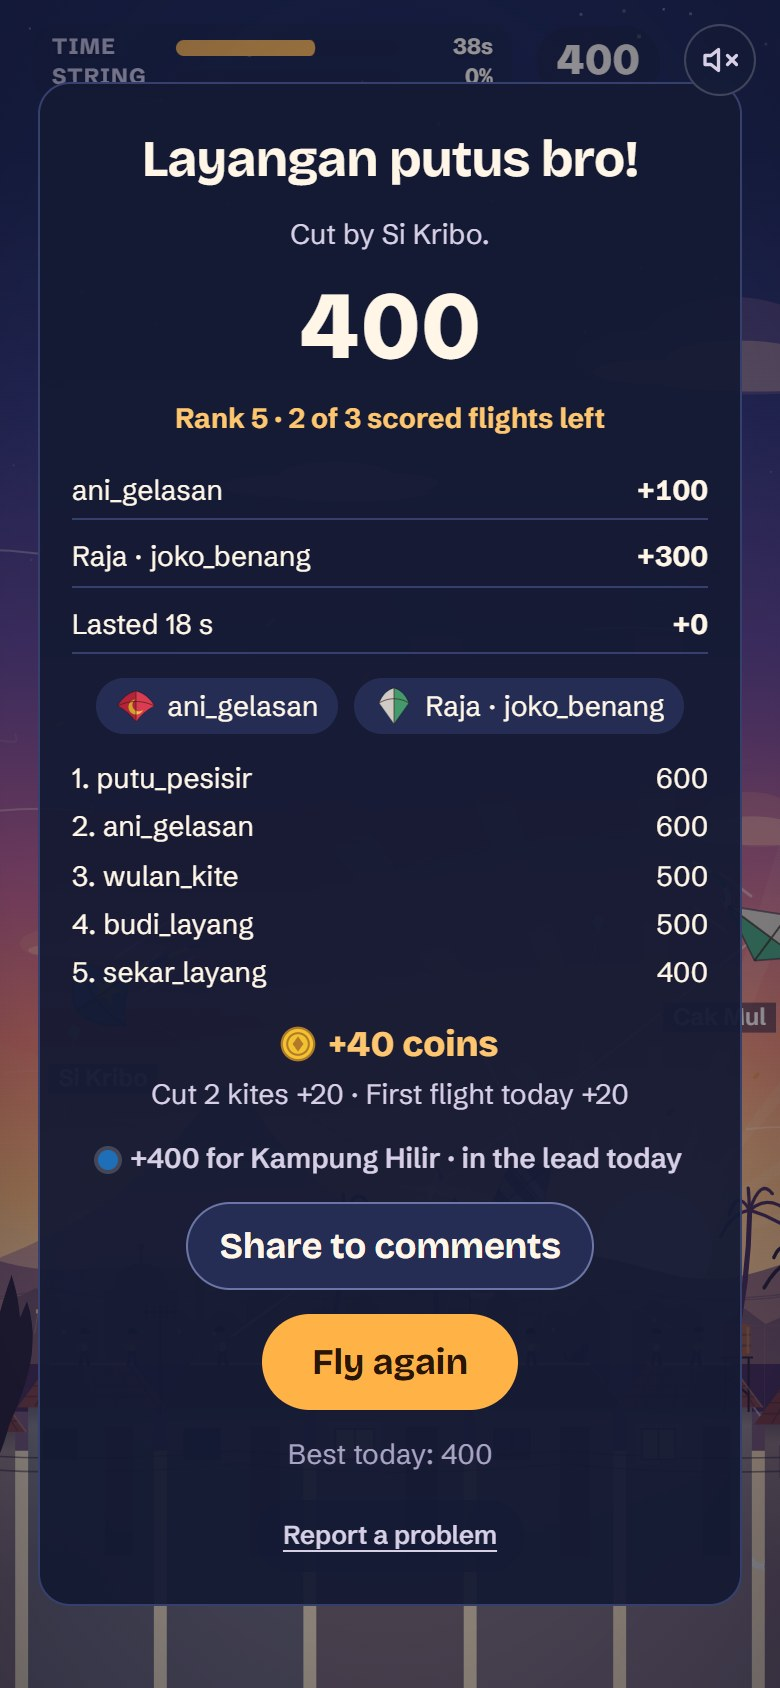
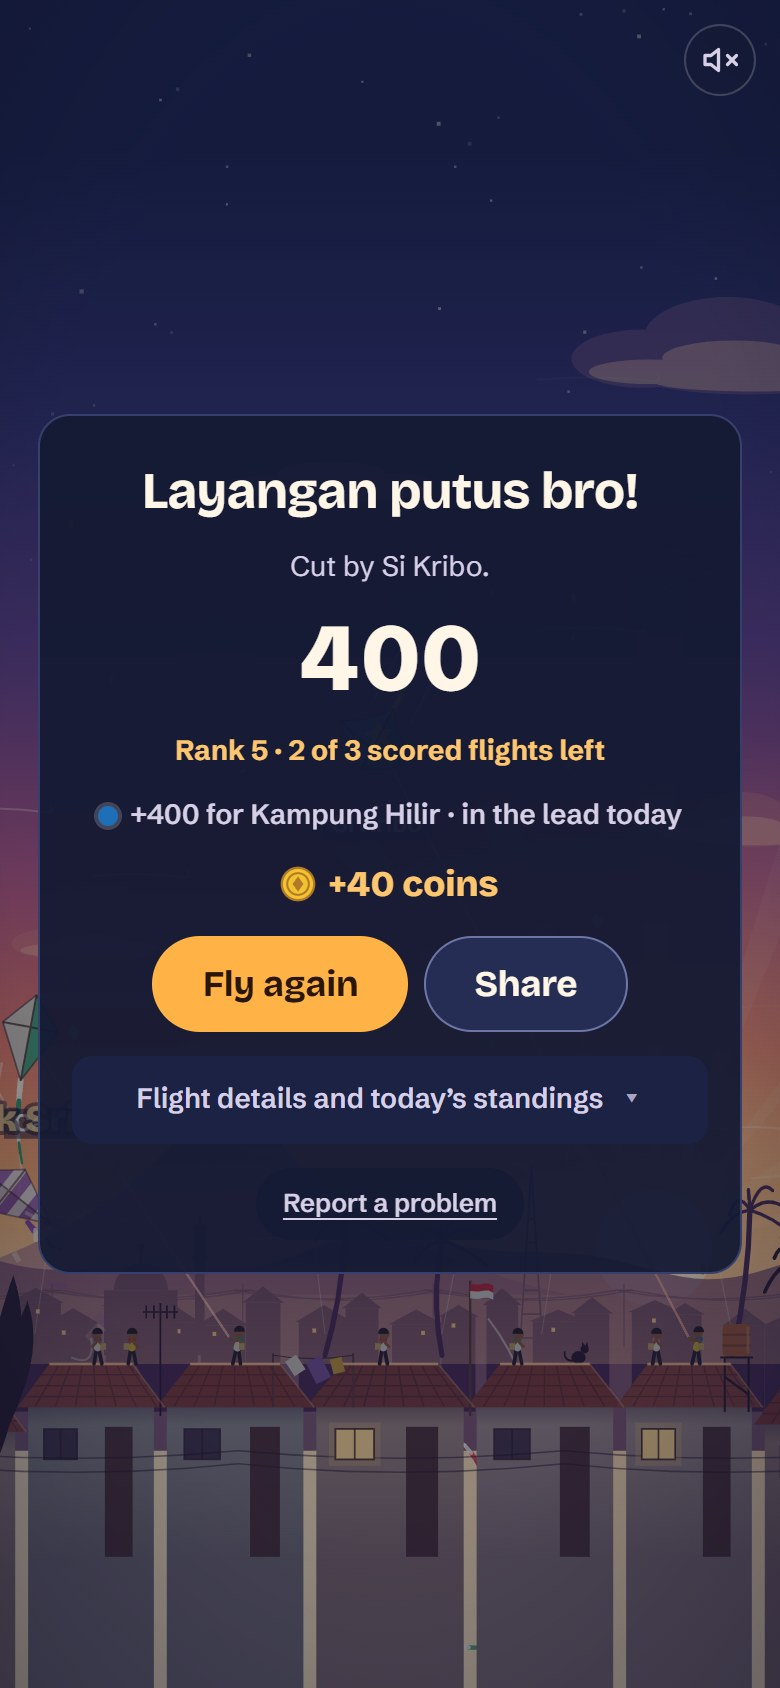
Update the result screenshot and its caption.
The listing now matches the folded result card, including the scored flights left and the details below.

diff --git a/README.md b/README.md
@@ -9,7 +9,7 @@ Fly a fighter kite with one finger. Cross a rival's string and saw through it wi
   &nbsp;
   <img src="docs/screenshots/04-flight.jpg" width="250" alt="A flight in progress: Time and String bars at the top with 400 points, kites over a volcano at sunset, and Raja Langit's kite torn apart above the roofs with the words RAJA! +300">
   &nbsp;
-  <img src="docs/screenshots/07-result.jpg" width="250" alt="The result card: Layangan putus bro!, cut by Si Kribo, 400 points, rank 5, the two kites cut including Raja Langit for 300, today's standings, +40 coins, +400 for Kampung Hilir in the lead today, and buttons to share to comments and fly again">
+  <img src="docs/screenshots/07-result.jpg" width="250" alt="The result card: Layangan putus bro!, cut by Si Kribo, 400 points, rank 5 with 2 of 3 scored flights left, +400 for Kampung Hilir in the lead today, +40 coins, Fly again and Share buttons, and the flight details and today's standings folded below">
 </p>
 <p align="center"><sub>The post in the feed · Cutting down Raja Langit · The result card</sub></p>
 
